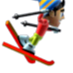
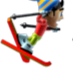
将红色方块改成小帅哥，并对小帅哥的一系列动作进行完善

diff --git a/src/player.cpp b/src/player.cpp
@@ -3,7 +3,7 @@
 #include <QPen>
 #include <QDebug>
 #include <qpainter.h>
-
+#include <QGraphicsScene>
 #include "terraingenerator.h"
 
 // 定义静态常量
@@ -21,7 +21,7 @@ static qreal normalizeAngle(qreal angle) {
 }
 
 Player::Player(QGraphicsItem *parent)
-    : BasePhysicsEntity(30, 30, parent),
+    : BasePhysicsEntity(40, 40, parent),
       is_fallen(false),
       keyLeft(false),
       keySpace(false),
@@ -32,16 +32,32 @@ Player::Player(QGraphicsItem *parent)
       m_takeoffRotation(0.0),
       m_flipRotation(0.0),
       m_cumulativeRotation(0.0),
+      m_drawOffsetX(-20),    // 调整绘制偏移，使角色正确显示
+      m_drawOffsetY(-25),    // 垂直绘制偏移，确保角色站在雪地上
       m_lastFrameRotation(0.0) {
 
     setZValue(-2);
 
     // 设置玩家外观
-    setBrush(QBrush(Qt::red));
-    setPen(QPen(Qt::black, 2));
 
     // 设置实体类型
     setEntityType(EntityType::Player);
+
+    // 加载所有玩家图像
+    m_playerImages.reserve(44);
+    for (int i = 0; i <= 43; i++) {
+        QString path = QString(":/resource/images/player/image%1.png").arg(QString::number(i));
+        m_playerImages.append(QPixmap(path));
+    }
+
+    // 设置当前图像索引
+    m_currentImageIndex = 0;
+
+    // 设置动画状态
+    m_animState = Standing;
+
+    // 设置动画计时器
+    m_animTimer = 0;
 
     // 允许接收键盘焦点
     setFlag(QGraphicsItem::ItemIsFocusable);
@@ -50,6 +66,8 @@ Player::Player(QGraphicsItem *parent)
     // 初始化摔倒恢复计时器
     connect(&m_fallRecoveryTimer, &QTimer::timeout, this, &Player::onFallRecoveryTimeout);
     m_fallRecoveryTimer.setSingleShot(true);
+    // 默认朝向
+    m_facingRight = true;
 }
 
 Player::~Player() {
@@ -63,10 +81,12 @@ void Player::keyPressEvent(QKeyEvent *event) {
     switch (event->key()) {
         case Qt::Key_Left:
             keyLeft = true;
+            m_facingRight = false;
             qDebug() << "Left key pressed";
             break;
         case Qt::Key_Right:
             keyRight = true;
+            m_facingRight = true;
             qDebug() << "Right key pressed";
             break;
         case Qt::Key_Space:
@@ -134,6 +154,9 @@ void Player::notifyTakeoff() {
     m_cumulativeRotation = 0.0;     // 重置累计旋转角度
     m_lastFrameRotation = rotation; // 记录起始角度作为上一帧角度
     qDebug() << "Takeoff with angle:" << m_takeoffRotation;
+    // 设置动画状态
+    m_animState = Flipping;
+    m_animTimer = 0;
 }
 
 // 检查落地角度并判断是否摔倒
@@ -191,9 +214,9 @@ void Player::updateRotate(TerrainGenerator* GTerrainGenerator) {
         setRotation(90); // 简单的90度侧躺姿势
         return;
     }
-    
+
     qreal oldRotation = rotation;
-    
+
     // 当在空中且按下Space键时，旋转,若没按下，则缓慢回到地形角度
     if (isOnGround() || !keySpace) {
         // 计算当前角度归一化值（角度/360）
@@ -225,22 +248,22 @@ void Player::updateRotate(TerrainGenerator* GTerrainGenerator) {
         angle -= rotateSpeed; // 改为减法，实现顺时针旋转
         setRotation(angle);
     }
-    
+
     // 在空中时累加旋转角度变化
     if (!isOnGround()) {
         // 计算本帧旋转了多少度（处理角度溢出）
         qreal rotationDelta = rotation - m_lastFrameRotation;
-        
+
         // 处理角度溢出（例如从359度到1度的变化应该是+2而不是-358）
         if (rotationDelta > 180) {
             rotationDelta -= 360;
         } else if (rotationDelta < -180) {
             rotationDelta += 360;
         }
-        
+
         // 累加到总旋转角度
         m_cumulativeRotation += rotationDelta;
-        
+
         // 更新上一帧角度
         m_lastFrameRotation = rotation;
     }
@@ -252,7 +275,14 @@ void Player::fall() {
     
     is_fallen = true;
     qDebug() << "Player has fallen! Flip rotation was:" << m_flipRotation;
-    
+
+    // 更新动画状态
+    m_animState = Falling;
+    m_animTimer = 0;
+
+    // 启动恢复计时器
+    m_fallRecoveryTimer.setSingleShot(true);
+
     // 启动恢复计时器
     m_fallRecoveryTimer.start(3000); // 3秒后恢复
 }
@@ -283,6 +313,8 @@ bool Player::isFallen() const {
 
 void Player::playerUpdate(TerrainGenerator* GTerrainGenerator) {
     // 处理旋转
+    updateAnimation();
+
     updateRotate(GTerrainGenerator);
 
 }
@@ -290,12 +322,74 @@ void Player::playerUpdate(TerrainGenerator* GTerrainGenerator) {
 
 void Player::paint(QPainter *painter, const QStyleOptionGraphicsItem *option, QWidget *widget)
 {
-    // 先调用父类绘制红色方块
-    QGraphicsRectItem::paint(painter, option, widget);
+    Q_UNUSED(option);
+    Q_UNUSED(widget);
 
-    // 绘制底部绿色边
-    QRectF r = rect();
-    QPen greenPen(Qt::green, 4); // 4像素宽绿色线
-    painter->setPen(greenPen);
-    painter->drawLine(r.bottomLeft(), r.bottomRight());
+    // 保存当前画家状态
+    painter->save();
+
+    // 绘制实际图像
+    QPixmap currentImage = m_playerImages[m_currentImageIndex];
+
+    // 创建变换以居中绘制图像
+    QTransform transform;
+
+    // 如果正在空翻，使用独立的旋转
+    if (m_animState == Flipping) {
+        transform.translate(rect().width()/2, rect().height()/2);
+        transform.rotate(m_cumulativeRotation);
+        transform.translate(-rect().width()/2, -rect().height()/2);
+    }
+
+    // 根据朝向翻转图像
+    if (!m_facingRight) {
+        transform.translate(rect().width(), 0);
+        transform.scale(-1, 1);
+    }
+
+    painter->setTransform(transform, true);
+
+    // 绘制图像，居中于碰撞盒
+    painter->drawPixmap(m_drawOffsetX, m_drawOffsetY, currentImage);
+
+    // 恢复画家状态
+    painter->restore();
+
+
+
+
+}
+
+void Player::updateAnimation()
+{
+    // Increase animation timer (assume 60fps)
+    m_animTimer += 0.016f;
+
+    switch (m_animState) {
+    case Standing:
+        // Standing animation remains unchanged: images 0-3
+            m_currentImageIndex = static_cast<int>(m_animTimer * 8) % 4;
+        break;
+    case Running:
+        // Running animation: images 8-12 (5 images cycling)
+            m_currentImageIndex = 8 + (static_cast<int>(m_animTimer * 12) % 5);
+        break;
+    case Jumping:
+        // Jumping animation remains unchanged: images 20-25 (non-looping)
+            m_currentImageIndex = qMin(20 + static_cast<int>(m_animTimer * 10), 25);
+        break;
+    case Flipping:
+        // Flipping animation: images 13-26 (14 images cycling)
+            m_currentImageIndex = 13 + (static_cast<int>(m_animTimer * 12) % 14);
+        break;
+    case Falling:
+        // Falling state: if rotation is near 90º (head down), use image 38;
+            // otherwise use flipping landing buffer: images 1-7 (7 images cycling)
+                if (qAbs(rotation - 90) < 10) {
+                    m_currentImageIndex = 38;
+                } else {
+                    m_currentImageIndex = 1 + (static_cast<int>(m_animTimer * 8) % 7);
+                }
+        break;
+    }
 }

diff --git a/src/gamescene.cpp b/src/gamescene.cpp
@@ -218,12 +218,15 @@ void GameScene::handlePhysicsObjectCollision(IPhysicsObject* obj) {
 
     // 获取实体对象和实际底部位置
     BasePhysicsEntity* entity = dynamic_cast<BasePhysicsEntity*>(obj);
+    Player* player = dynamic_cast<Player*>(obj);
 
     qreal actualObjBottom;
-    if (entity) {
-        actualObjBottom = entity->sceneBoundingRect().bottom() - 5;
-    }
-    else {
+    if (player) {
+        // 对玩家使用特殊的底部计算，考虑到绘制偏移
+        actualObjBottom = player->y() + player->rect().height() - 1;
+    } else if (entity) {
+        actualObjBottom = entity->sceneBoundingRect().bottom() - 2;
+    } else {
         actualObjBottom = objPos.y() + objRect.height();
     }
 
@@ -231,7 +234,7 @@ void GameScene::handlePhysicsObjectCollision(IPhysicsObject* obj) {
     qreal groundTolerance = calculateGroundTolerance(horizontalSpeed, terrainSlope, forwardSlope, verticalSpeed);
 
     // 添加玩家对象的检测
-    Player* player = dynamic_cast<Player*>(obj);
+
     
     bool wasOnGround = obj->isOnGround();
 

diff --git a/include/player.h b/include/player.h
@@ -34,6 +34,9 @@ public:
     
     // 获取最后一次空翻角度
     qreal getFlipRotation() const;
+    // 绘制偏移
+    qreal m_drawOffsetX;
+    qreal m_drawOffsetY;
     
     // 判断玩家是否处于摔倒状态
     bool isFallen() const;
@@ -74,4 +77,25 @@ private:
     
     // 常量
     static const qreal MAX_LANDING_ANGLE_DEVIATION; // 最大允许着陆角度偏差
+    enum AnimationState {
+        Standing,
+        Running,
+        Jumping,
+        Falling,
+        Landing,
+        Flipping
+    };
+
+    // 图像资源
+    QVector<QPixmap> m_playerImages; // 玩家图像资源
+    int m_currentImageIndex; // 当前图像索引
+    AnimationState m_animState; // 动画状态
+    float m_animTimer; // 动画计时器
+
+
+    // 朝向
+    bool m_facingRight;
+
+    // 动画处理
+    void updateAnimation();
 };
